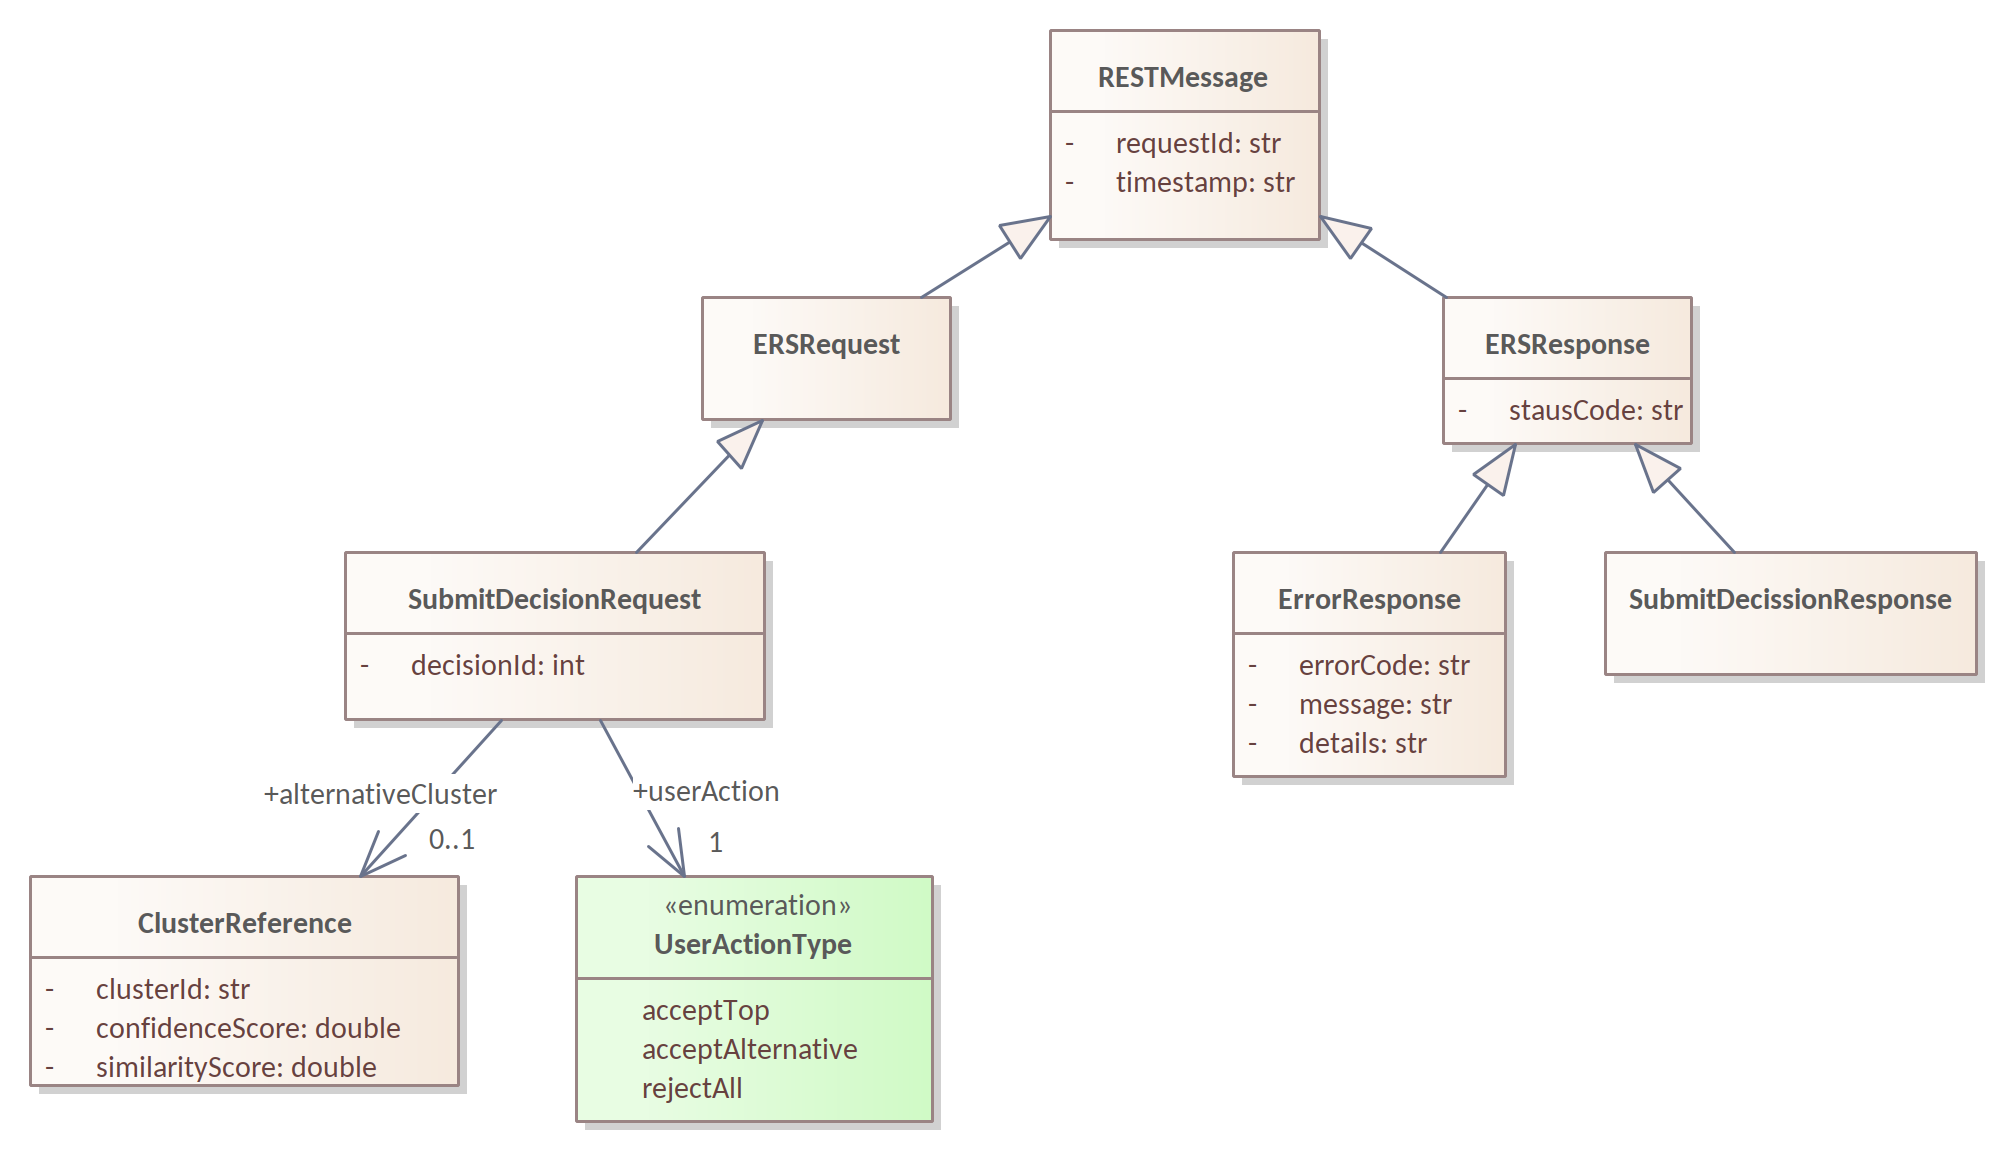
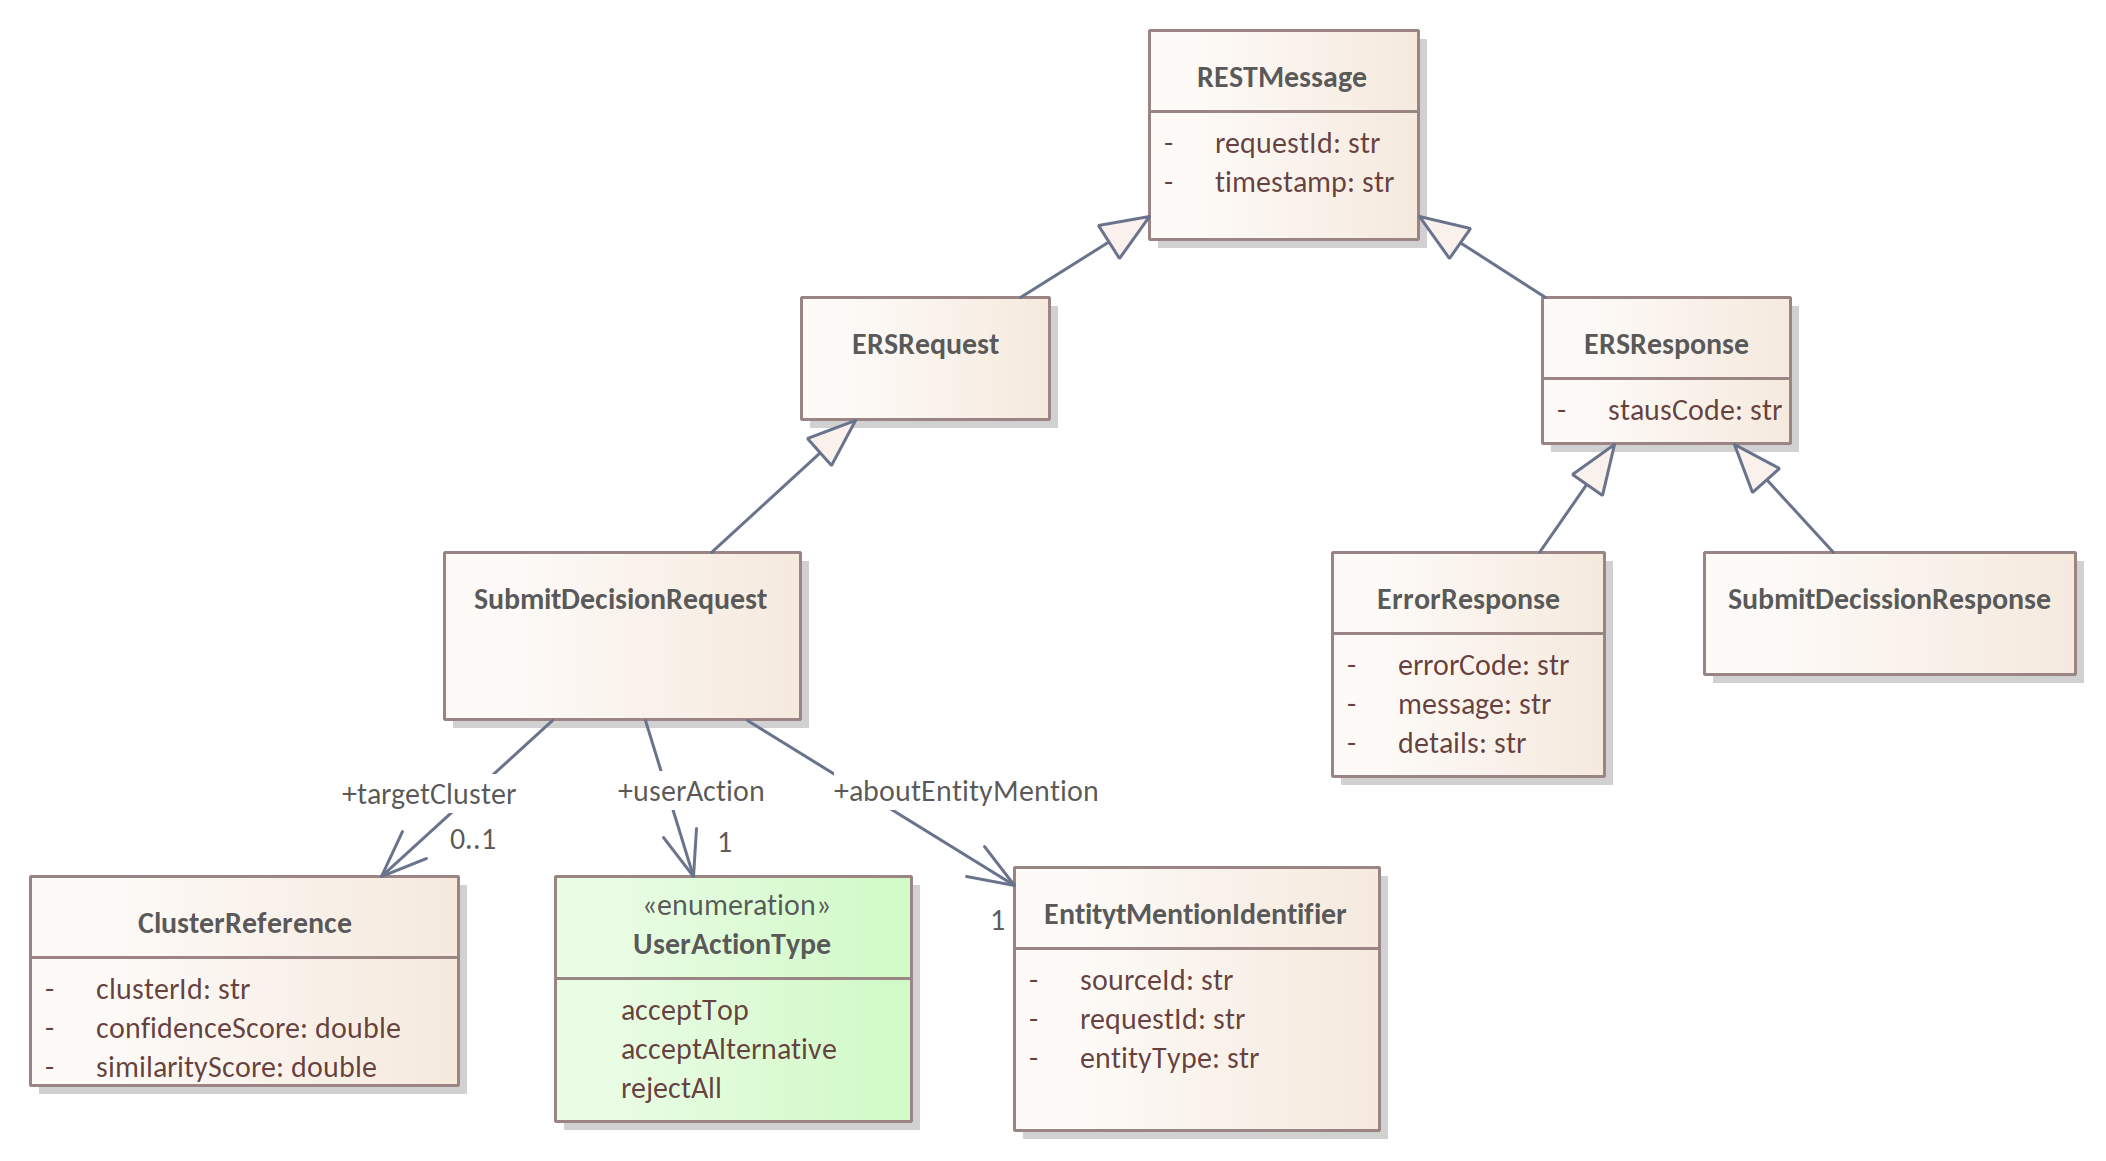
Update architecture README files and sequence diagrams to reflect the engine-authoritative clustering model and current ADR baseline.
Documentation and diagram alignment only.

diff --git a/docs/architecture/diagrams/readme.md b/docs/architecture/diagrams/readme.md
@@ -1,72 +1,77 @@
 # Architecture Diagrams Index
 
-This folder contains architecture diagrams referenced by the ERSys Architecture Document and the ERS–ERE Technical Contract. The diagrams are provided as rendered images (`.png`) and represent **authoritative architectural views** at different abstraction levels.
+This folder contains architecture diagrams referenced by the ERSys Architecture Document, ADR set, and the ERS–ERE Technical Contract. The diagrams are provided as rendered images (`.png`) and represent **authoritative architectural views** at different abstraction levels.
 
-Unless stated otherwise, these diagrams are **normative at their stated level** and are intended to be read together with the accompanying textual sections of the architecture document. Some diagrams provide high-level context, while others zoom into specific concerns such as messaging, governance, or deployment.
+Unless stated otherwise, these diagrams are **normative at their stated level** and are intended to be read together with the corresponding textual sections of the architecture documentation. Some diagrams provide high-level context, while others focus on specific concerns such as messaging, persistence, governance semantics, or deployment.
+
+The views reflect the consolidated engine-authoritative baseline (13 Feb 2026), where cluster identifiers in ERE are canonical identifiers and ERS stores only the latest placement per mention.
 
 ---
 
 ## Context and layering diagrams
 
-* `L0.png`
-  System context diagram showing ERSys in relation to external actors and surrounding systems.
+* [`L0.png`](./L0.png)
+  System context diagram showing ERSys in relation to originators, downstream consumers, curators, and surrounding systems (e.g. TED-SWS pipeline).
 
-* `L1.png`
-  High-level functional decomposition of the ER System, identifying major responsibilities and boundaries.
+* [`L1.png`](./L1.png)
+  High-level functional decomposition of ERSys, identifying externally visible services and responsibility boundaries.
 
-* `L2 - Application Cooperation Overview.png`
-  Application-level cooperation view showing how ERS, ERE, and related applications interact at runtime.
+* [`L2 - Application Cooperation Overview.png`](./L2%20-%20Application%20Cooperation%20Overview.png)
+  Application-level cooperation view showing how ERS (orchestration façade), ERE (authoritative clustering engine), and related components interact at runtime.
 
 ---
 
 ## Contract and integration diagrams
 
-* `L2 - Contract Realisation and Messaging Mediation (ERS-ERE).png`
-  Structural view of the ERS–ERE technical contract, illustrating contract realisation by both components and mediation via messaging middleware.
+* [`L2 - Contract Realisation and Messaging Mediation (ERS-ERE).png`](./L2%20-%20Contract%20Realisation%20and%20Messaging%20Mediation%20%28ERS-ERE%29.png)
+  Structural view of the ERS–ERE asynchronous contract, illustrating contract realisation by both components and mediation via messaging middleware.
 
-* `ERS messages.png`
-  Overview of message types produced and consumed by ERS.
+* [`ERS messages.png`](./ERS%20messages.png)
+  Overview of message types produced and consumed by ERS public APIs, including resolution, preview, decision submission, statistics, and refreshBulk.
 
-* `ere messages.png`
-  Overview of message types produced and consumed by ERE.
+* [`ere messages.png`](./ere%20messages.png)
+  Overview of resolution request and response message types exchanged with the Entity Resolution Engine, including recommendation and reclustering variants.
 
-* `preview messages.png`
-  Message flows related to preview or provisional resolution outcomes.
+* [`preview messages.png`](./preview%20messages.png)
+  Message model related to entity and canonical preview operations, including pagination metadata.
 
-* `submit decision messages.png`
-  Message flows related to the submission of governed resolution decisions.
+* [`submit decision messages.png`](./submit%20decision%20messages.png)
+  Message model for submission of curator recommendations (user actions) and associated cluster references.
 
-* `statistics messages.png`
-  Messages exchanged for reporting and statistics purposes.
+* [`statistics messages.png`](./statistics%20messages.png)
+  Messages exchanged for reporting and statistics purposes, including registry and curation metrics.
 
 ---
 
 ## Governance and persistence views
 
-* `canonical registry.png`
-  View of the canonical registry and its role in maintaining governed canonical identifiers.
+* [`decision store.png`](./decision%20store.png)
+  Diagram illustrating the storage model of the Resolution Decision Store, containing the latest cluster placement and top N alternatives per mention.
 
-* `decision store.png`
-  Diagram illustrating the storage and lifecycle of resolution decisions.
+* [`system of records.png`](./system%20of%20records.png)
+  Overview of entity mentions, identifiers (sourceId, requestId, entityType), and lookup state within ERSys.
 
-* `system of records.png`
-  Overview of authoritative source systems and their relationship to ERSys.
+* [`user actions log.png`](./user%20actions%20log.png)
+  Diagram of the User Action Log used for traceability and training, separated from canonical decision state.
+
+Note: ERSys does not maintain a Canonical Entity Registry under the current baseline; canonical identity is materialised by ERE clusters.
 
 ---
 
 ## Technology and deployment diagrams
 
-* `Technology choices.png`
-  Summary of selected and candidate technologies used within ERSys.
+* [`Technology choices.png`](./Technology%20choices.png)
+  Summary of selected technologies mapped to architectural roles (messaging, storage, identity, telemetry, container runtime).
 
-* `Technology deployment.png`
-  Reference deployment architecture illustrating runtime components and their relationships.
+* [`Technology deployment.png`](./Technology%20deployment.png)
+  Reference deployment architecture illustrating runtime stacks (ERS, ERE, Link Curation), messaging middleware, datastores, and container isolation boundaries.
 
 ---
 
 ## Notes
 
 * Diagram filenames correspond to figures referenced in the architecture document; titles in the document may be more descriptive than filenames.
-* Some diagrams are intentionally high-level and omit implementation details; others focus on specific concerns (messaging, governance, deployment).
-* Behavioural details and step-by-step flows are documented separately using Mermaid sequence diagrams.
-* Where both simplified and detailed views exist, the architecture document always indicates which view is normative for the given section.
+* Some diagrams are intentionally high-level and omit implementation details; others focus on specific concerns (messaging, persistence, deployment).
+* Behavioural details and step-by-step flows (e.g. provisional lifecycle, asynchronous resolution) are documented separately using sequence diagrams.
+* Where both simplified and detailed views exist, the architecture document explicitly indicates which view is normative for the given section.
+* In case of ambiguity, the consolidated engine-authoritative baseline governs interpretation.

diff --git a/docs/architecture/sequence_diagrams/readme.md b/docs/architecture/sequence_diagrams/readme.md
@@ -1,82 +1,31 @@
 # Architecture Sequence Diagrams
 
-This folder contains Mermaid (`.mmd`) sequence diagrams used in, or referenced by, the ERSys architecture documentation and the ERS–ERE technical contract.
+This folder contains Mermaid (`.mmd`) sequence diagrams referenced by the ERSys Architecture Document and the ERS–ERE Technical Contract. The diagrams express **normative behavioural spines** under the engine-authoritative clustering model. They focus on interaction order, responsibility transfer, contract boundaries, and externally observable guarantees.
 
-The diagrams are organised to support **different levels of abstraction**:
-
-* **Simplified diagrams** are used directly in architecture and contract documents to communicate intent, roles, and guarantees without implementation noise.
-* **Non-simplified (detailed) diagrams** provide additional context and should be consulted when deeper understanding is required, for example during implementation, review, or troubleshooting. They are not all reproduced verbatim in the architecture document but remain authoritative supporting artefacts.
-
-Only Mermaid source files are listed below. Generated images or archives are excluded.
+Only Mermaid source files are listed below.
 
 ---
 
-## End-to-end overview diagrams
+## Overview and contract
 
-* `E2E-resolution-cycle.mmd`
-  Full end-to-end resolution cycle across ERS, ERE, and supporting components.
-
-* `E2E-resolution-cycle(simplified).mmd`
-  Simplified end-to-end view used in the architecture document for high-level explanation.
+* [`E2E-resolution-cycle(simplified).mmd`](./E2E-resolution-cycle%28simplified%29.mmd) — High-level end-to-end resolution cycle across ERS and ERE.
+* [`ers-ere-inreface.mmd`](./ers-ere-inreface.mmd) — Contract-level asynchronous interaction between ERS and ERE.
+* [`_participants.mmd`](./_participants.mmd) — Shared participant definitions reused across diagrams.
 
 ---
 
-## Shared participants
+## Behavioural spines
 
-* `_participants.mmd`
-  Common participant definitions reused across multiple sequence diagrams to ensure naming consistency.
-
----
-
-## Spine A — Resolve Entity Mention
-
-* `spine-A-Resolve-EntityMention.mmd`
-  Detailed sequence for the primary entity resolution flow, including internal processing steps.
-
-* `spine-A-Resolve-EntityMention(simplified).mmd`
-  Contract- and architecture-level view of the resolve operation, used in documentation.
-
----
-
-## Spine B — ERS–ERE asynchronous exchange
-
-* `spine-B-ERS-ERE-async-exchange.mmd`
-  Detailed asynchronous interaction between ERS and ERE, including proposal delivery and integration.
-
-* `spine-B-ERS-ERE-async-exchange(simplified).mmd`
-  Simplified contract-level representation of the ERS–ERE exchange, focusing on obligations and semantics.
-
----
-
-## Spine C — Canonical lookup
-
-* `spine-C-Lookup.mmd`
-  Sequence describing lookup of the current governed canonical assignment.
-
----
-
-## Spine D — Curation loop
-
-* `spine-D-Curation-loop.mmd`
-  Detailed human-in-the-loop curation sequence, including governance effects.
-
-* `spine-D-Curation-loop(simplified).mmd`
-  Simplified curation loop used for architectural explanation.
-
----
-
-## Spine E — Rebuild
-
-* `spine-E-rebuild.mmd`
-  Detailed rebuild sequence illustrating possible internal behaviours during a rebuild.
-
-* `spine-E-rebuild(simplified).mmd`
-  High-level rebuild semantics as referenced in the contract and architecture documents.
+* [`spine-A-Resolve-EntityMention(simplified).mmd`](./spine-A-Resolve-EntityMention%28simplified%29.mmd) — Resolve flow with dual time budgets and provisional lifecycle.
+* [`spine-B-ERS-ERE-async-exchange(simplified).mmd`](./spine-B-ERS-ERE-async-exchange%28simplified%29.mmd) — Asynchronous exchange, idempotency, and latest-outcome semantics.
+* [`spine-C-Lookup.mmd`](./spine-C-Lookup.mmd) — Read-only canonical lookup.
+* [`spine-D-Curation-loop(simplified).mmd`](./spine-D-Curation-loop%28simplified%29.mmd) — Curator recommendation and authoritative re-evaluation.
 
 ---
 
 ## Notes
 
-* Simplified diagrams are the **primary references** in normative architecture and contract documents.
-* Detailed diagrams are **supporting artefacts** and may include illustrative or informative steps that are intentionally omitted from simplified views.
-* All diagrams share a consistent vocabulary aligned with the ERSys architecture, ADRs, and glossary.
+* Sequence diagrams are normative at the behavioural level.
+* They describe interaction semantics, not structural decomposition.
+* Vocabulary and guarantees align with the ERSys Architecture Document, ADR baseline, and Business Glossary.
+* Where simplified views exist, they are the primary architectural reference.
